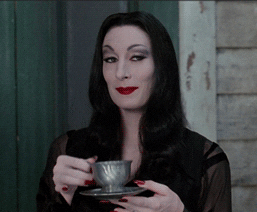
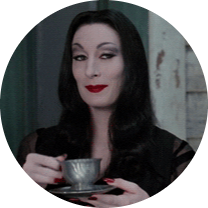
fini demo

diff --git a/frontend/src/pages/Dashboard/Pages/BubbleDetails/Graph.jsx b/frontend/src/pages/Dashboard/Pages/BubbleDetails/Graph.jsx
@@ -1,9 +1,9 @@
 import { useRef, useEffect } from "react";
 import * as d3 from "d3";
+import "./Graph.css";
 
 function Graph({ width, height, links, nodes }) {
   const svgRef = useRef(null);
-
   useEffect(() => {
     const simulation = d3
       .forceSimulation(nodes)
@@ -40,36 +40,45 @@ function Graph({ width, height, links, nodes }) {
       .select(svgRef.current)
       .attr("viewBox", [0, 0, width, height]);
 
-    const nodeWidth = 200;
+    const nodeWidth = 250;
     const nodeHeight = 100;
 
     const link = svg
       .append("g")
-      .attr("stroke", "#000")
-      .attr("stroke-width", 1.5)
+      .attr("stroke", "#ffeba7")
+      .attr("stroke-width", 2.5)
       .selectAll("line")
       .data(links)
       .join("line")
       .attr("stroke-width", (d) => Math.sqrt(d.value));
 
     const label = svg.append("g").selectAll(".label").data(links).join("g");
-
     label
-      .append("rect")
-      .attr("x", -50)
-      .attr("y", -15)
-      .attr("height", 20)
-      .attr("width", 100)
-      .attr("fill", "#fff");
+      .append("circle")
+      .attr("class", (d) => `ava_${d.name}`)
+      .attr("r", 50)
+      .attr("fill", "#ffeba7");
+    label
+      .append("image")
+      .attr("id", (d) => d.name)
+      .attr("x", -25)
+      .attr("y", -5)
+      .attr("width", 50)
+      .attr("height", 50)
+      .attr("xlink:href", (d) => d.photo)
+      .attr("alt", "photo");
 
     label
       .append("text")
+      .attr("y", -15)
       .attr("text-anchor", "middle")
-      .text((d) => d.text);
+      .style("font-weight", "bold")
+      .style("font-size", "1rem")
+      .text((d) => d.name);
 
     const node = svg
       .append("g")
-      .attr("stroke", "#000")
+      .attr("stroke", "#ffeba7")
       .attr("stroke-width", 1.5)
       .selectAll(".node")
       .data(nodes)
@@ -78,10 +87,35 @@ function Graph({ width, height, links, nodes }) {
 
     node
       .append("rect")
-      .attr("rx", 50)
+      .attr("id", (d) => d.id)
+      .attr("rx", 10)
       .attr("width", nodeWidth)
       .attr("height", nodeHeight)
-      .attr("fill", "#fff");
+      .attr("fill", "#3b4554")
+      .attr("opacity", 0.8);
+    node
+      .select("#a")
+      .attr("width", nodeWidth)
+      .attr("height", 200)
+      .attr("stroke", "#38d6ae");
+
+    node
+      .append("text")
+      .attr("x", 40)
+      .attr("y", 180)
+      .attr("text-anchor", "middle")
+      .style("color", "#ffeba7")
+      .style("font-weight", "bold")
+      .style("font-size", "1rem")
+      .text((d) => d.name);
+    node
+      .append("image")
+      .attr("x", 185)
+      .attr("y", 140)
+      .attr("width", 50)
+      .attr("height", 50)
+      .attr("xlink:href", (d) => d.photo)
+      .attr("alt", "photo");
 
     node
       .append("foreignObject")

diff --git a/frontend/src/pages/Dashboard/Pages/BubbleDetails/BubbleDetails.jsx b/frontend/src/pages/Dashboard/Pages/BubbleDetails/BubbleDetails.jsx
@@ -6,7 +6,9 @@ function BubbleDetails() {
     nodes: [
       {
         id: "a",
-        text: "Quentin hehehehihih",
+        text: "Quentin hehehefhihih fsfg fdg f g",
+        name: "Quentin",
+        photo: "/ContactPhotos/Quentin.png",
       },
       {
         id: "b",
@@ -34,12 +36,42 @@ function BubbleDetails() {
       },
     ],
     links: [
-      { source: "a", target: "b", text: "foo" },
-      { source: "a", target: "c", text: "bar" },
-      { source: "a", target: "d", text: "foobar" },
-      { source: "a", target: "e", text: "foo and bar" },
-      { source: "a", target: "f", text: "barfoo" },
-      { source: "a", target: "g", text: "barfoo" },
+      {
+        source: "a",
+        target: "b",
+        name: "Audrey H",
+        photo: "/ContactPhotos/Audrey.png",
+      },
+      {
+        source: "a",
+        target: "c",
+        name: "Cyril",
+        photo: "/ContactPhotos/Cyril.png",
+      },
+      {
+        source: "a",
+        target: "d",
+        name: "Gwenael",
+        photo: "/ContactPhotos/Gwenael.png",
+      },
+      {
+        source: "a",
+        target: "e",
+        name: "Herschel",
+        photo: "/ContactPhotos/Herschel.png",
+      },
+      {
+        source: "a",
+        target: "f",
+        name: "Huy",
+        photo: "/ContactPhotos/Huy.png",
+      },
+      {
+        source: "a",
+        target: "g",
+        name: "Johanna",
+        photo: "/ContactPhotos/Johanna.png",
+      },
     ],
   };
 
@@ -52,6 +84,9 @@ function BubbleDetails() {
   return (
     <div className="bubbleTeas">
       <Graph width={width} height={height} links={links} nodes={nodes} />
+      <div className="bb-title">
+        <h1>Bubbles View Mode</h1>
+      </div>
     </div>
   );
 }

diff --git a/frontend/src/pages/Dashboard/Pages/BubbleDetails/BubbleDetails.css b/frontend/src/pages/Dashboard/Pages/BubbleDetails/BubbleDetails.css
@@ -1,5 +1,15 @@
 .bubbleTeas {
-  margin-top: -100px;
+  margin-top: -170px;
+  display: flex;
+  flex-direction: column;
+  justify-content: center;
+  align-items: center;
   width: 80%;
   height: 100%;
+}
+
+.bb-title {
+  position: absolute;
+  top: 70%;
+  color: var(--light-color);
 }

diff --git a/frontend/src/pages/Dashboard/Pages/BubbleDetails/Graph.css b/frontend/src/pages/Dashboard/Pages/BubbleDetails/Graph.css
@@ -1,0 +1,12 @@
+.bubbleTeas g {
+  color: var(--light-color);
+}
+
+#img-bubble {
+  /* position: absolute;
+    top: 0;
+    left: 0; */
+  border-radius: 50%;
+  object-fit: cover;
+  transition: 0.5s;
+}
